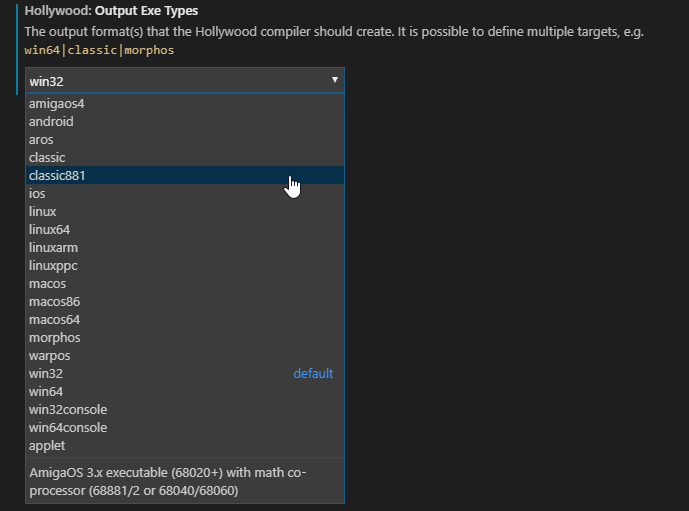
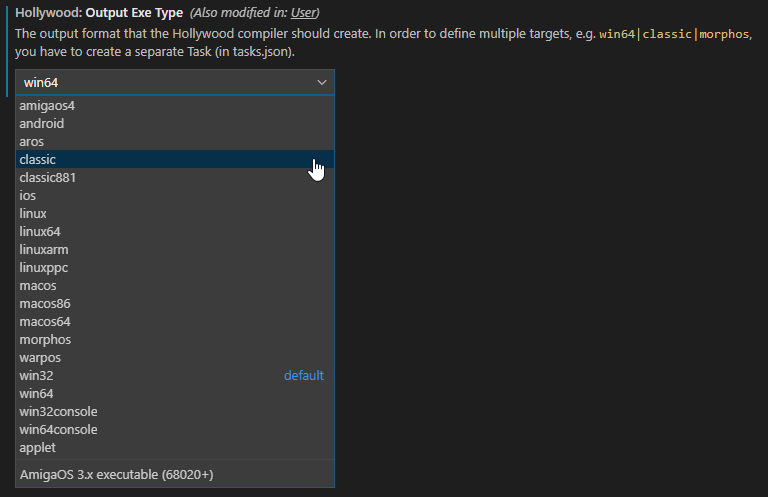
Improved package.json and README, more snippets, example task.json file
The package.json was improved as a preparation of the release.

2 configuration properties were renamed:
- "hollywood.Path" to "hollywood.exePath"
- "hollywood.OutputExeTypes" to "hollywood.outputExeType"

1 new configuration was added:
-  "hollywood.mainFile" -> This defines the project's main Hollywood file

New snippets were added for defining new functions.

Resized icon and moved it to root folder, so the whole media folder can be added to .vscodeignore.

Changed region(s): [[0.0, 0.0, 0.9753, 0.996]]

diff --git a/README.md b/README.md
@@ -1,8 +1,8 @@
-# Hollywood MAL for Visual Studio Code
+# Hollywood for Visual Studio Code (hw4vsc)
 
-*DISCLAIMER:* This is no official product by Airsoft Software.
+**DISCLAIMER:** This is not an official product by Airsoft Software.
 
-This extension adds support for [Hollywood](https://www.hollywood-mal.com) 8 to Visual Studio Code (Windows, macOS, Linux). Hollywood is a programming language available for AmigaOS, Windows, macOS, and Linux and is capable of compiling to the following target plattforms:
+This extension adds support for [Hollywood](https://www.hollywood-mal.com) **version 8** to Visual Studio Code (Windows, macOS, Linux). Hollywood is a multimedia-oriented programming language designed to create applications and games and is available for AmigaOS, Windows, macOS, and Linux. Hollywood (and therefore this extension) is capable of compiling to the following target plattforms:
 
 * AmigaOS
 * Android
@@ -16,6 +16,9 @@ This extension adds support for [Hollywood](https://www.hollywood-mal.com) 8 to 
 
 In order to make use of the extension you need to buy a copy of Hollywood here: <https://www.hollywood-mal.com/purchase.html>
 More information about Hollywood is available here: <https://www.hollywood-mal.com>
+You can find the Hollywood documentation here: <https://www.hollywood-mal.com/docs/html/hollywood/>
+
+The version number of this plugin correspondes with the version number of Hollywood. Therefore the first release version of this extension is 8.0.0.
 
 ## Features
 
@@ -24,6 +27,7 @@ First of all you can use the great inbuilt editing features of Visual Studio Cod
 Additionally this extension supports:
 
 * Hollywood specific syntax highlighting (Light and Dark theme)
+* Hollywood specific code snippets
 * Code indention
 * Code folding
 
@@ -31,11 +35,16 @@ Additionally this extension supports:
 
 1. Install and open [Visual Studio Code](https://code.visualstudio.com).
 2. Press `Ctrl+Shift+X` or `Cmd+Shift+X` to open the Extensions pane or click on the corresponding button in the side bar.
-3. Find the Hollywood extension (look for "Hollywood MAL") and click `Install`. You can also install the extension from the [Visual Studio Code Marketplace](https://marketplace.visualstudio.com/items?itemName=ms-vscode.Go) -> TODO!!!
+3. Find the Hollywood extension (look for "Hollywood MAL") and click `Install`.
 
 or
 
-Download/check out the content of this repo and copy it to your extension folder:
+1. Download the latest release in the form of a `.vsix` file in this extensions [GitHub releases tab](https://github.com/JohnArcher/vscode-hollywood-mal/releases)
+2. Open a command prompt (like cmd or PowerShell on Windows), navigate to the downloaded extension and enter `code --install-extension hollywood-mal-8.0.0.vsix`, where `hollywood-mal-8.0.0.vsix` has to be the name of the downloaded file.
+
+or
+
+Download/check out the content of the GitHub repo and copy it to your extension folder:
 
 * **Windows:** `%USERPROFILE%\.vscode\extensions`
 * **macOS:** `~/.vscode/extensions`
@@ -43,31 +52,71 @@ Download/check out the content of this repo and copy it to your extension folder
 
 ## Configuration
 
-Open user or wokspace settings and define the path to the Hollywood executeable. Look for the option `hollywood.Path` or add it in `settings.json`.
+ Open User or Wokspace Settings by pressing `Ctrl+Shift+P` and enter `settings` or open the extension pane, click the *manage* icon on the Hollywood extension and select *Extension Settings*. Please consult the docs for [creating User and Workspace settings](https://code.visualstudio.com/docs/getstarted/settings)
 
-Example (for Windows): `"hollywood.Path": "C:\Program Files\Hollywood\Hollywood.exe"`
+### Path to Hollywood executeable
+
+Setting: `hollywood.exePath`
+
+Normally this should be a **User** Setting (and not a Workspace Setting), so the executeable is defined globally for all your Hollywood projects.
+
+![Configuration of hollywood.exePath in Settings](https://raw.githubusercontent.com/JohnArcher/vscode-hollywood-mal/dev/media/configuration_exepath.png)
+
+Example (for Windows) in the .json file (like `settings.json`): `"hollywood.exePath": "C:\Program Files\Hollywood\Hollywood.exe"`
 
 Now open a `.hws` file. The extension is activated now.
 
-## Add tasks
+### Define main file
+
+Setting: `hollywood.mainFile`
+
+Whether your Hollywood project consists of one or more files, you should define the main Hollwood file of your project. This will help you compiling and running your project via Tasks (see below).
+
+This is a setting that should be defined as a Workspace Setting (so create a Worspace first if you haven't down it yet (`File` -> `Save Workspace as ...`)).
+
+![Configuration of hollywood.mainFile in Settings](https://raw.githubusercontent.com/JohnArcher/vscode-hollywood-mal/dev/media/configuration_mainfile.png)
+
+Example (for Windows) in `YOUR_PROJECT.code-workspace`: `"hollywood.mainFile": "mainApp.hws"`
+
+### Define standard executable output format
+
+Setting: `hollywood.outputExeType`
+
+This setting specifies the output format of the executable that the Hollywood compiler shall create.
+
+The best approach is to define this in the **user** settings (so it is defined globally for all your projects) and override it in **workspace** settings if needed, so you can have different output formats for different workspaces/projects.
+
+![Configuration of hollywood.outputExeType in Settings](https://raw.githubusercontent.com/JohnArcher/vscode-hollywood-mal/dev/media/configuration_outputexetype.png)
+
+Example (for Windows) in `YOUR_PROJECT.code-workspace`: `"hollywood.outputExeType": "classic"`
+
+In order to define multiple targets, e.g. `win64|classic|morphos`, you have to create a separate Task (see description below or have a look for [the example file](https://github.com/JohnArcher/vscode-hollywood-mal/blob/dev/exampleFiles/tasks.json).
+
+For a complete list of all output formats check the `-exetype` console argument under <https://www.hollywood-mal.com/docs/html/hollywood/ManualUsage.html>
+
+## Run and compile
+
+You have to create Tasks in Visual Studio Code in order to run or compile a Hollywood file or project. It is recommended to read the [documentation for Tasks](https://code.visualstudio.com/docs/editor/tasks).
+
+### Create Tasks
+
+TODO
 
 ### Run task
+
+TODO
 
 ## TODOs / Future
 
 Overall goal: Provide nearly the same feature subset as the official Hollywood IDE for Windows
 
-* Licence (incl. parts copyright by Airsoft Software )
-* Icon: <https://code.visualstudio.com/api/extension-guides/icon-theme>
-* See "Hollywood IDE" -> Settings -> Hollywood
-* File similar to https://code.visualstudio.com/docs/nodejs/working-with-javascript#_javascript-projects-jsconfigjson for at least defining the main file of the project (which gets compile by the proper task). And/or just package.json property.
-* Code Completion
+This includes and adds:
+
 * Code Completion, also for # and @
-* Possible? -> "And "#Col" will popup all colors constants or "#EVENTS" will popup all possible event flags." (like in Flow Studio)
-* Snippets
+* more snippets
 * Commands (Contribution point)
 * Menus (Contribution point)
 * Help (press F1 or similar and help file gets loaded with word under cursor)
 * Quick Help
 * Function detection and listing (Strg + P, AltGr + q)
-* Build task
+* ...

diff --git a/CHANGELOG.md b/CHANGELOG.md
@@ -1,8 +1,6 @@
 # Change Log
 
-All notable changes to the "hollywood" extension will be documented in this file.
-
-Check [Keep a Changelog](http://keepachangelog.com/) for recommendations on how to structure this file.
+All notable changes to the "hw4vsc" extension will be documented in this file.
 
 ## [Unreleased]
 
@@ -22,9 +20,9 @@ Check [Keep a Changelog](http://keepachangelog.com/) for recommendations on how 
 
 ### Added
 
-- New setting `hollywood.OutputExeTypes` for defining the output type(s) including easy picking of available types and displaying their descriptions (taken from the official Hollywood documentation)
+- New setting `hollywood.outputExeType` for defining the output type including easy picking of available types and displaying their descriptions (taken from the official Hollywood documentation)
 
-![Configuration of OutputExeTypes](./media/configuration_outputexetype.png)
+![Configuration of hollywood.outputExeType](https://raw.githubusercontent.com/JohnArcher/vscode-hollywood-mal/dev/media/configuration_outputexetype.png)
 
 ## [0.2.0] - 2019-02-22
 
